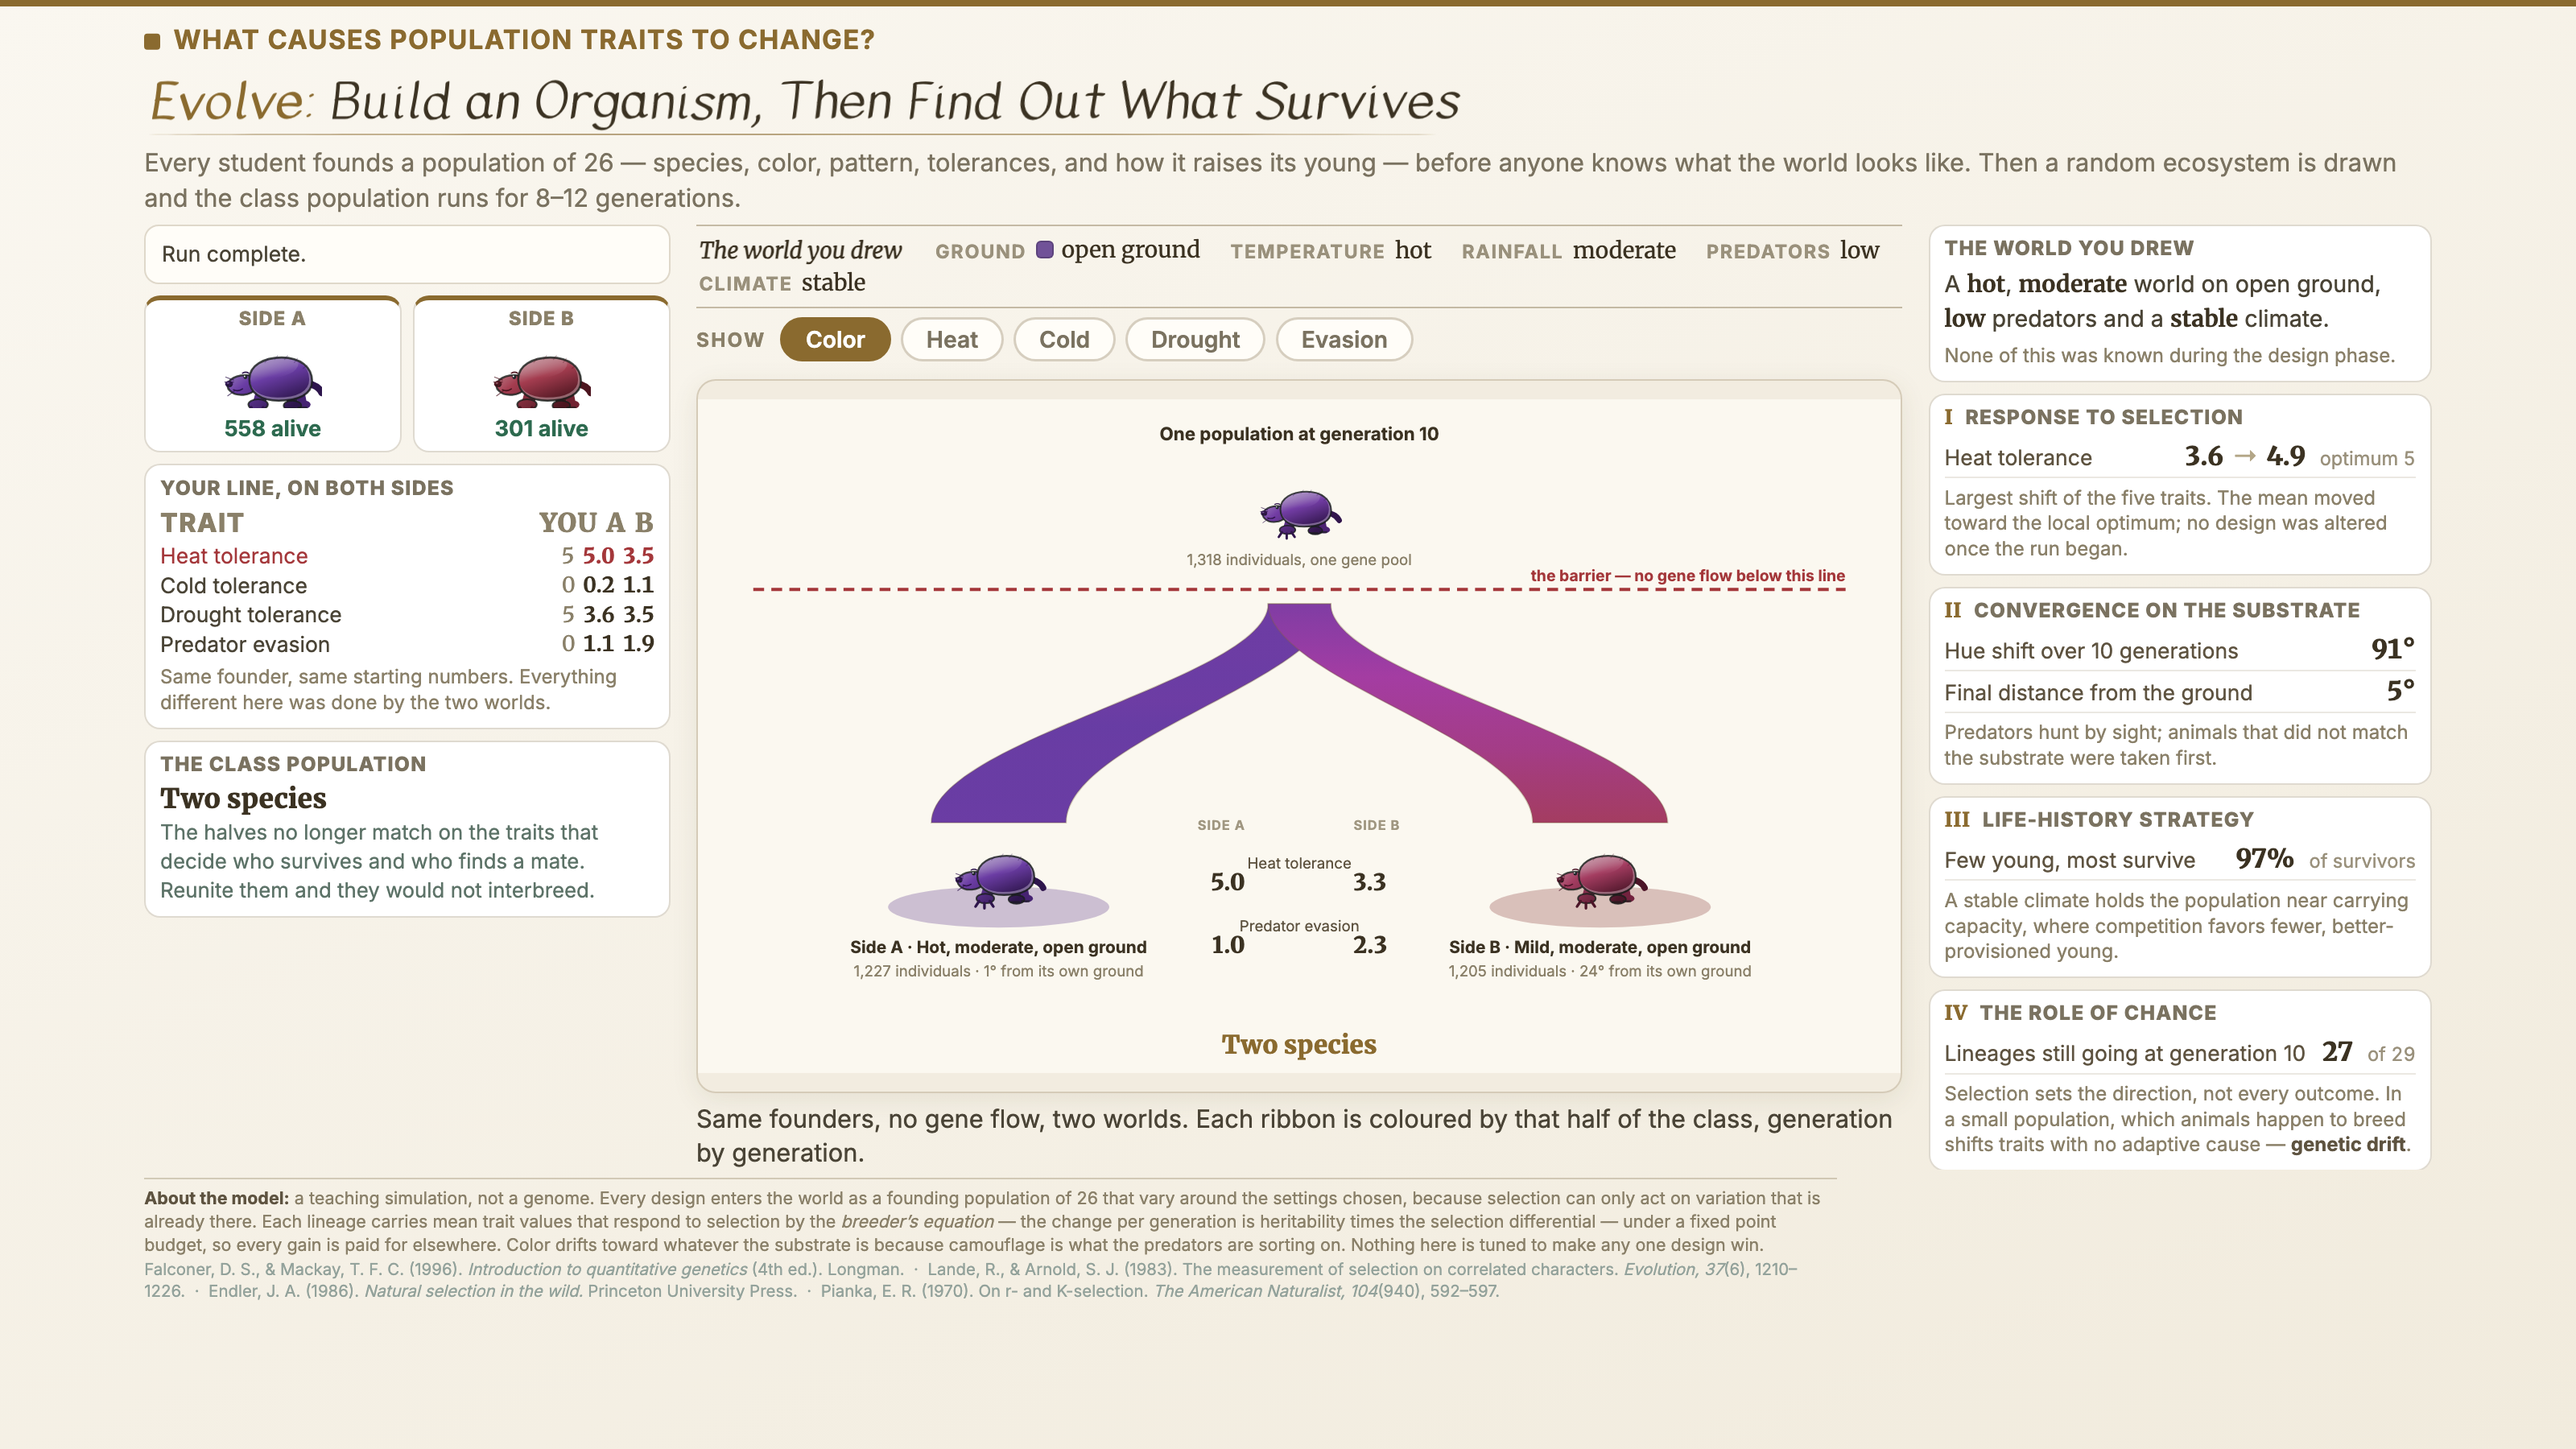
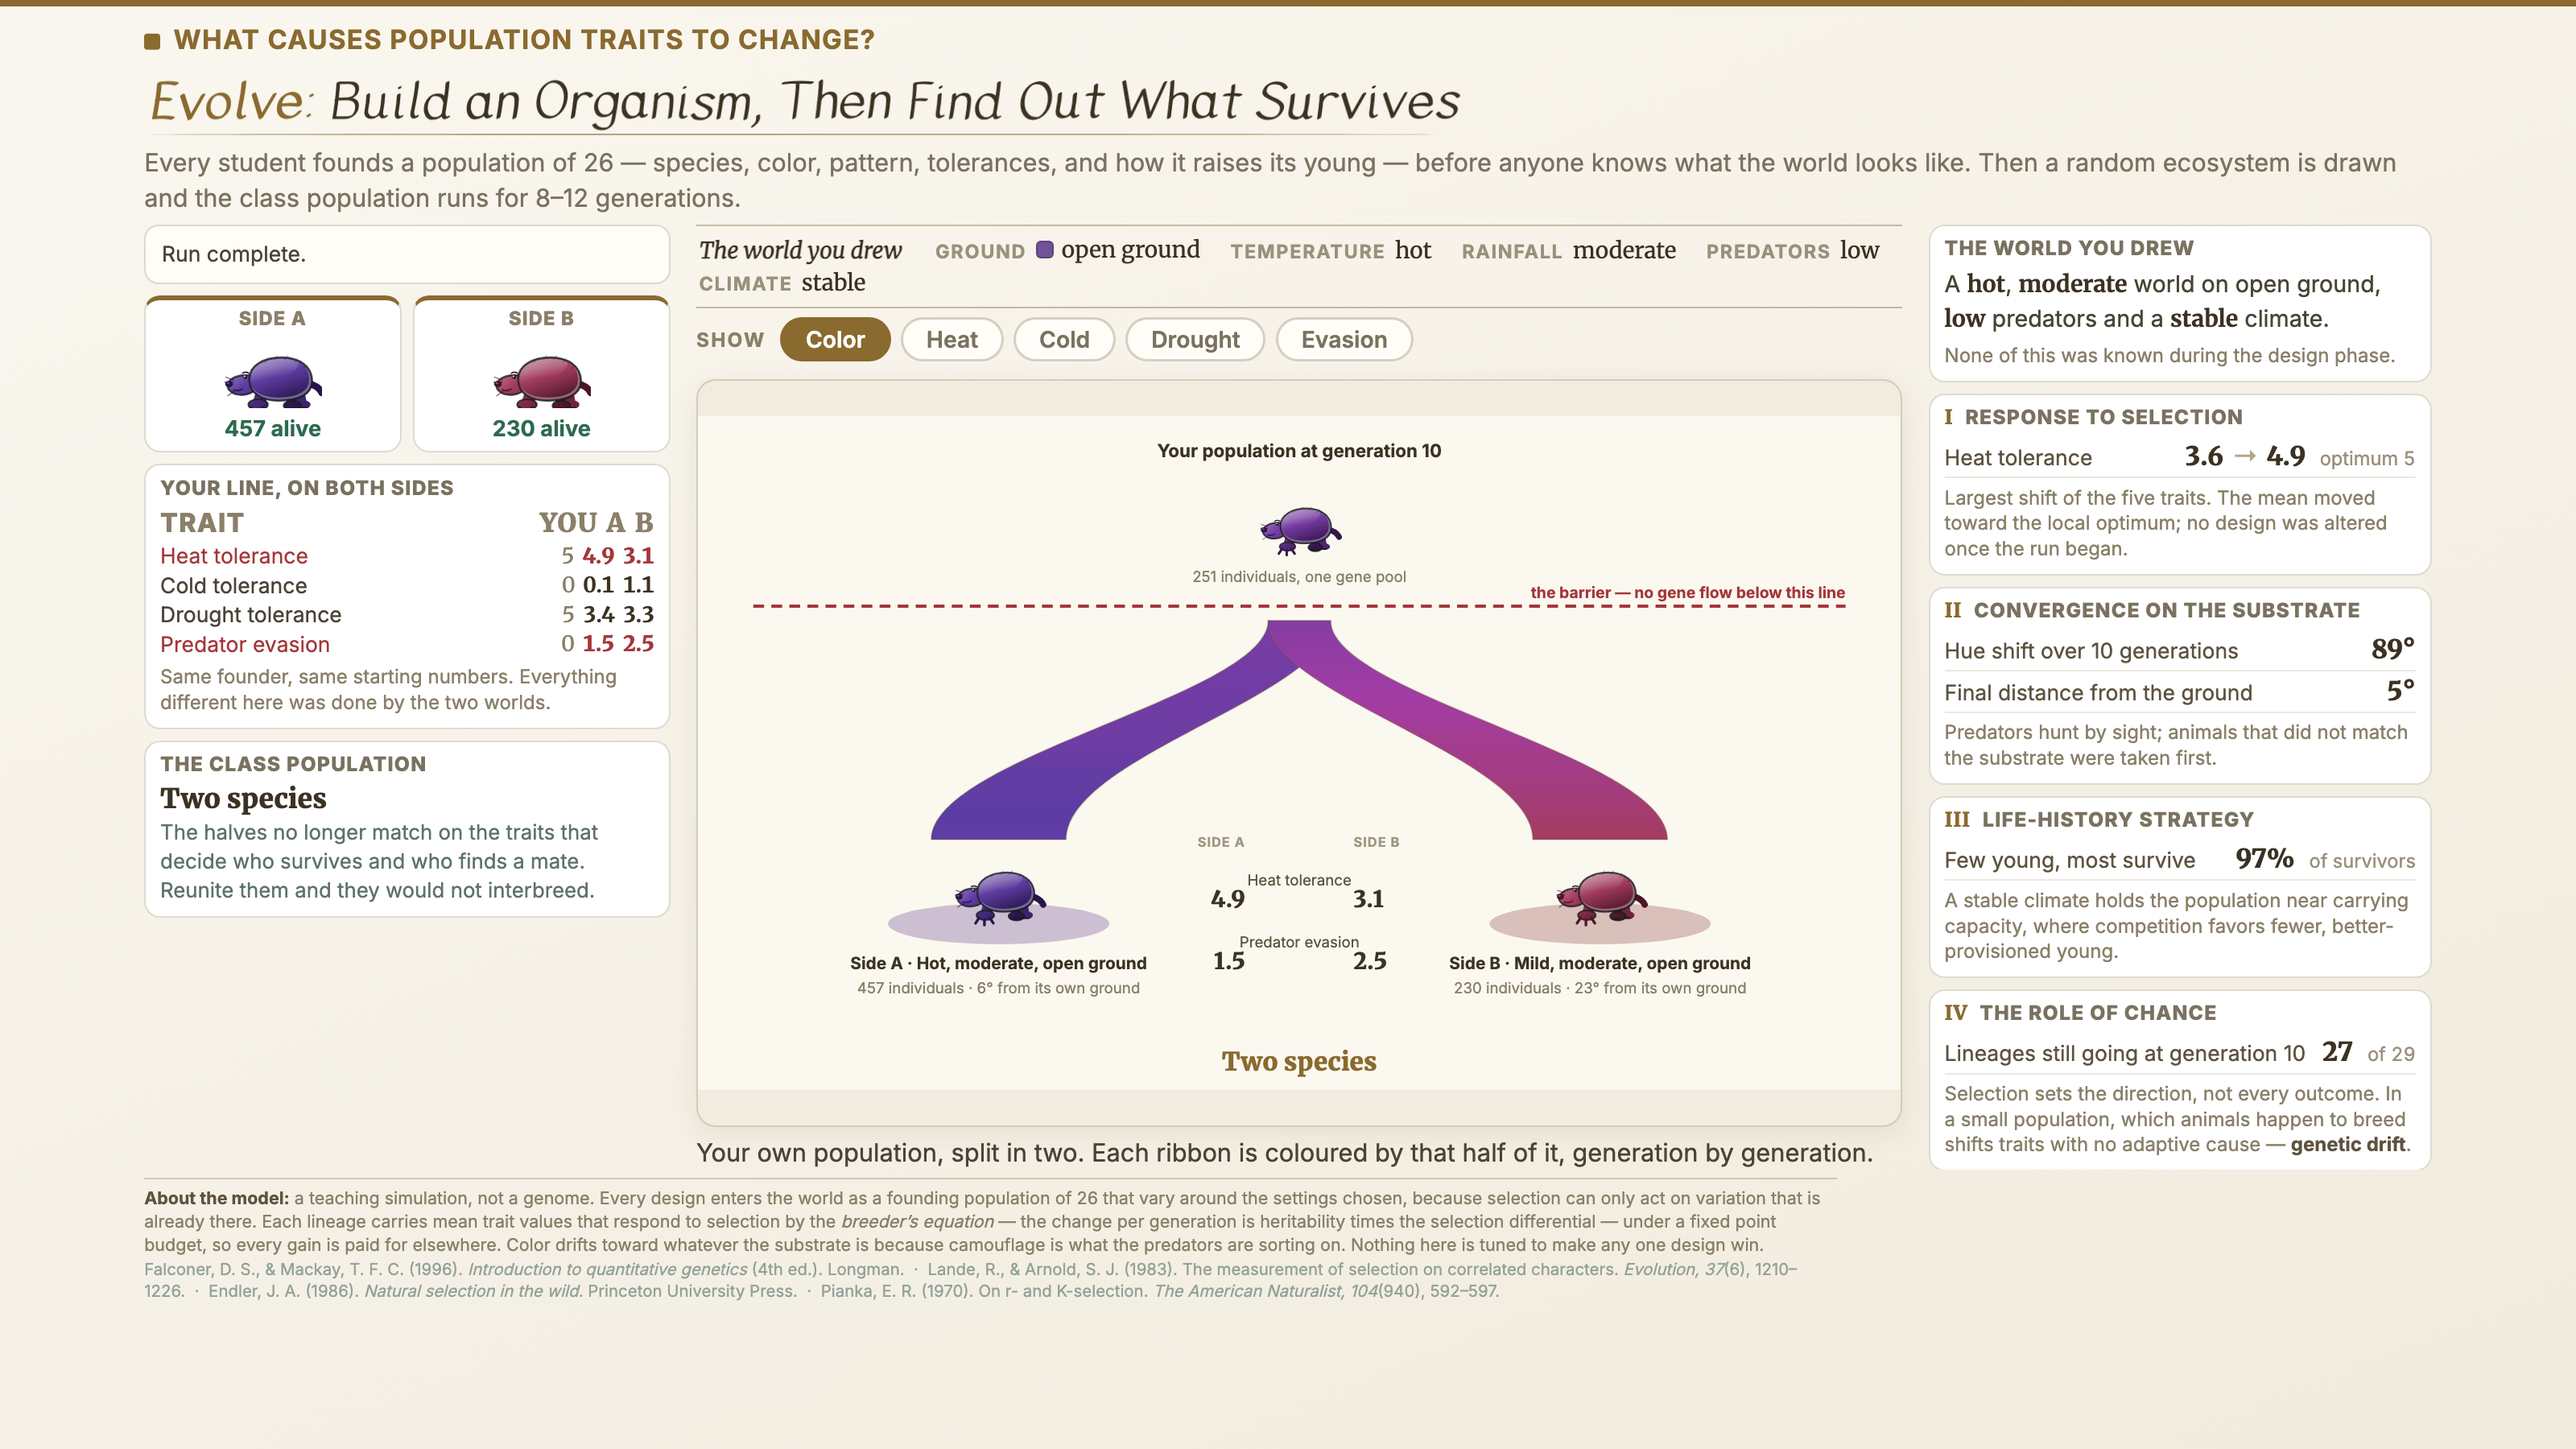
Make speciation personal on the phone and per-species on the projector
The split figure measured the whole class on both screens, so every one of 300
phones showed the same verdict about a population none of them owned. It now
measures the student's OWN lineage: their founders at the barrier, their two
halves, their verdict.

The projected copy closes on the five species instead. Everyone who picked a
species is pooled on each side of the barrier, and each row shows the two
halves in the colours they actually reached with how far apart they ended.
Same barrier, same two worlds, five founding stocks — and they do not all come
apart, which is the point of 4.3 and was invisible behind a single verdict.

Also fixes a verdict that read "two species" about a half that had died out:
an extinct side still has a last-known mean, and comparing against it made a
population that no longer exists look like a successful split.

diff --git a/evolve/index.html b/evolve/index.html
@@ -849,6 +849,16 @@ img.bleed{position:absolute; inset:0; width:100%; height:100%; object-fit:cover;
 .bd-count{font-family:'Merriweather',serif; font-size:13px; font-weight:900; fill:#3b3222;
   font-variant-numeric:tabular-nums;}
 .mb-cell{stroke:rgba(30,24,12,.22); stroke-width:.6;}
+/* the five-species comparison */
+.ss-name{font-family:'Merriweather',serif; font-size:19px; font-weight:900; fill:#3b3222;}
+.ss-sub{font-family:'Inter',sans-serif; font-size:12px; fill:#8a8069;}
+.ss-gone{font-family:'Inter',sans-serif; font-size:13px; font-style:italic; fill:#a89a86;}
+.ss-rule{stroke:rgba(120,100,60,.17); stroke-width:1; fill:none;}
+.ss-tick{stroke:rgba(120,100,60,.3); stroke-width:1; stroke-dasharray:3 4; fill:none;}
+.ss-track{fill:#ece5d6;}
+.ss-fill{fill:var(--accent); opacity:.85;}
+.ss-verdict{font-family:'Inter',sans-serif; font-size:14px; font-weight:700; fill:#5e5340;}
+.ss-verdict.two{fill:var(--accent); font-weight:800;}
 /* the draw, dressed as a specimen card rather than a game show: parchment,
    hairline rules, small-caps labels, and a restrained gold flash when a value
    lands. The riffle stays — it is the part that makes the room look up. */
@@ -2596,6 +2606,76 @@ function drawBands(svg, W, H){
   return true;
 }
 
+/* ══ WHAT THE BARRIER DID TO EACH SPECIES ══════════════════════════════════
+   The same barrier, the same two worlds, five founding stocks — and they do
+   not all come apart. Some end up unable to interbreed and some barely move,
+   which is the whole point of 4.3 and is invisible if the room is shown one
+   class-wide verdict.
+
+   Each row is one of the five species: everyone in the class who picked it,
+   pooled, on side A and on side B, and how far the two halves have moved. The
+   two animals are drawn in the colours those halves actually reached. ══ */
+function speciesSplitRows(){
+  var G=gens(), i=splitIdx()||G, ds=designs(), counts={};
+  Object.keys(ds).forEach(function(k){ counts[ds[k].sp]=(counts[ds[k].sp]||0)+1; });
+  return SPECIES.map(function(sp){
+    var who={sp:sp.k};
+    var A=meanOf(snapAt(1,i), who), B=meanOf(snapAt(2,i), who);
+    return {sp:sp, n:counts[sp.k]||0, A:A, B:B,
+            dv:(counts[sp.k] ? divergence(A,B) : null)};
+  }).filter(function(r){ return r.n>0; });
+}
+function drawSpeciesSplit(svg, W, H){
+  var rows=speciesSplitRows();
+  if(!rows.length) return false;
+  svg.setAttribute('preserveAspectRatio','xMidYMid meet');
+  svg.setAttribute('viewBox','0 0 '+W+' '+H);
+  var eA=world(1), eB=world(2);
+  var PADT=96, PADB=44, rowH=(H-PADT-PADB)/rows.length;
+  var xA=330, xB=470, xBar=560, barW=W-xBar-186;
+
+  var s='<rect width="'+W+'" height="'+H+'" fill="#fbf8f0"/>';
+  s+='<text class="bd-title" x="46" y="34">What the barrier did to each species</text>'
+    +'<text class="bd-marklab" x="46" y="58">The same two worlds for all of them. They did not all come apart.</text>'
+    +'<text class="sp-hd" x="'+xA+'" y="'+(PADT-16)+'" text-anchor="middle">side A</text>'
+    +'<text class="sp-hd" x="'+xB+'" y="'+(PADT-16)+'" text-anchor="middle">side B</text>'
+    +'<text class="sp-hd" x="'+xBar+'" y="'+(PADT-16)+'">how far apart</text>';
+
+  /* the verdict thresholds, so a row's position on the bar means something */
+  [0.15,0.30,0.45].forEach(function(v){
+    var x=xBar+barW*v;
+    s+='<path class="ss-tick" d="M'+x.toFixed(0)+' '+(PADT-8)+' V'+(PADT+rowH*rows.length-4).toFixed(0)+'"/>';
+  });
+
+  rows.forEach(function(r,i){
+    var y=PADT+rowH*i, cy=y+rowH*0.46, sc=0.42;
+    s+='<path class="ss-rule" d="M46 '+(y+rowH-2).toFixed(1)+' H'+(W-46)+'"/>';
+    s+='<text class="ss-name" x="46" y="'+(cy-2).toFixed(1)+'">'+r.sp.n+'</text>'
+      +'<text class="ss-sub" x="46" y="'+(cy+16).toFixed(1)+'">'+r.n+' player'+(r.n===1?'':'s')+'</text>';
+    [[r.A,xA,eA],[r.B,xB,eB]].forEach(function(o){
+      var m=o[0], cx=o[1];
+      s+='<ellipse class="sp-ground" cx="'+cx+'" cy="'+(cy+20).toFixed(1)+'" rx="42" ry="8" fill="'
+        +hsl(o[2].hue,30,46)+'"/>';
+      if(!m){
+        s+='<text class="ss-gone" x="'+cx+'" y="'+(cy+4).toFixed(1)+'" text-anchor="middle">gone</text>';
+        return;
+      }
+      s+='<g transform="translate('+(cx-50*sc).toFixed(1)+','+(cy-45*sc-4).toFixed(1)+') scale('+sc+')">'
+        + critter(r.sp.k, Math.round(m.hue), 'solid', CRIT_SAT, CRIT_LIT) +'</g>';
+    });
+    var D=r.dv? r.dv.D : 0;
+    s+='<rect class="ss-track" x="'+xBar+'" y="'+(cy-7).toFixed(1)+'" width="'+barW+'" height="14" rx="7"/>'
+      +'<rect class="ss-fill" x="'+xBar+'" y="'+(cy-7).toFixed(1)+'" width="'
+      +Math.max(4,barW*Math.min(1,D)).toFixed(1)+'" height="14" rx="7"/>'
+      +'<text class="ss-verdict'+(D>=0.45?' two':'')+'" x="'+(xBar+barW+12)+'" y="'+(cy+5).toFixed(1)+'">'
+      +(r.dv? r.dv.name : '—')+'</text>';
+  });
+  s+='<text class="bd-leg" x="46" y="'+(H-14)+'">Further right means the two halves match less on the traits that '
+    +'decide who survives and who finds a mate.</text>';
+  svg.innerHTML=s;
+  return true;
+}
+
 /* ⚠ SUPERSEDED, KEPT FOR REFERENCE. The student's screen now shows their own
    founding population as a block chart (drawMineBands) — the same view the room
    gets, which is the honest one because they founded a population rather than an
@@ -2827,26 +2907,57 @@ function modalSpecies(){
   Object.keys(cnt).forEach(function(k){ if(cnt[k]>bn){ bn=cnt[k]; sp=k; } });
   return sp;
 }
-function sideTrack(w, upto){
+/* Speciation is something that happens to a POPULATION, and every student has
+   one of their own — so the picture on a student's phone should be their
+   lineage splitting, not the class average, which is the same on all 300
+   screens and therefore tells nobody anything about their own animal. */
+function lineMean(snap, k){
+  var L=snap?snap.lines[k]:null;
+  if(!L||!L.alive||L.n<=0) return null;
+  return {t:L.t, hue:L.hue, n:L.n};
+}
+/* and the same for everyone who picked one species, which is what lets the
+   room see the barrier split some species and leave others alone */
+function speciesMean(snap, spk){
+  if(!snap) return null;
+  var ds=designs(), t={}, sx=0, sy=0, tot=0;
+  TRAITS.forEach(function(tr){ t[tr.k]=0; });
+  Object.keys(snap.lines).forEach(function(k){
+    if(!ds[k] || ds[k].sp!==spk) return;
+    var L=snap.lines[k]; if(!L.alive||L.n<=0) return;
+    tot+=L.n;
+    TRAITS.forEach(function(tr){ t[tr.k]+=L.t[tr.k]*L.n; });
+    var r=L.hue*Math.PI/180; sx+=Math.cos(r)*L.n; sy+=Math.sin(r)*L.n;
+  });
+  if(!tot) return null;
+  TRAITS.forEach(function(tr){ t[tr.k]/=tot; });
+  return {t:t, hue:((Math.atan2(sy,sx)*180/Math.PI)+360)%360, n:tot};
+}
+function meanOf(snap, who){
+  return who==null ? popMean(snap)
+       : (typeof who==='object' ? speciesMean(snap, who.sp) : lineMean(snap, who));
+}
+function sideTrack(w, upto, who){
   var hues=[], last=null, gone=0;
   for(var g=1; g<=upto; g++){
-    var m=popMean(snapAt(w,g));
+    var m=meanOf(snapAt(w,g), who);
     if(m){ hues.push(m.hue); last={g:g, m:m}; }
     else if(!gone && last){ gone=g; }
   }
   return {hues:hues, last:last, gone:gone};
 }
-function drawSplitFig(svg, W, H){
+function drawSplitFig(svg, W, H, who){
   var G=gens(), upto=splitIdx()||G;
-  var f=popMean(snapAt(0,G));
+  var f=meanOf(snapAt(0,G), who);
   if(!f) return false;
   var d=myDesign(), sp=(d&&d.sp)||modalSpecies(), pat=(d&&d.pat)||'solid';
-  var TA=sideTrack(1,upto), TB=sideTrack(2,upto);
+  var TA=sideTrack(1,upto,who), TB=sideTrack(2,upto,who);
   var UIDL=(++UID);
   var s='<rect width="'+W+'" height="'+H+'" fill="#fbf8f0"/>';
 
   /* ── the founder ── */
-  s+='<text class="sp-cap" x="'+(W/2)+'" y="34" text-anchor="middle">One population at generation '+G+'</text>'
+  s+='<text class="sp-cap" x="'+(W/2)+'" y="34" text-anchor="middle">'
+    +(who? 'Your population at generation ' : 'One population at generation ')+G+'</text>'
     +'<g transform="translate('+(W/2-50*0.66)+','+(88-45*0.66)+') scale(0.66)">'
     + critter(sp, Math.round(f.hue), pat, CRIT_SAT, CRIT_LIT)+'</g>'
     +'<text class="sp-sub" x="'+(W/2)+'" y="138" text-anchor="middle">'+num(f.n)+' individuals, one gene pool</text>';
@@ -2903,8 +3014,11 @@ function drawSplitFig(svg, W, H){
   });
 
   /* ── the two traits that came apart the most ── */
-  var mA=TA.last?TA.last.m:null, mB=TB.last?TB.last.m:null;
-  if(mA&&mB&&RA.live&&RB.live){
+  /* a side that died out has a last-known mean, but comparing against it says
+     "two species" about a population that no longer exists. The verdict has to
+     see nothing there, which is what makes it read "one side was lost". */
+  var mA=(RA.live&&TA.last)?TA.last.m:null, mB=(RB.live&&TB.last)?TB.last.m:null;
+  if(mA&&mB){
     var diffs=TRAITS.map(function(tr){
       return {n:tr.n, a:mA.t[tr.k], b:mB.t[tr.k], d:Math.abs(mA.t[tr.k]-mB.t[tr.k])};
     }).sort(function(x,y){ return y.d-x.d; }).slice(0,2);
@@ -3228,7 +3342,8 @@ function render(){
   q('[data-joinbox]').hidden = HOST || joined() || !(ph==='lobby'||ph==='design');
   renderEcoBar(); renderDesign(); renderMine(); renderReadout(); renderSurvey();
   var bb=q('[data-bandbar]');
-  bb.hidden = !(ph==='discuss'||ph==='final');
+  bb.hidden = !(ph==='discuss'||ph==='final')
+    || (ph==='final' && didSplit() && (HOST || !myDesign()));
   if(ph==='reveal') startReveal(); else q('[data-reveal]').hidden=true;
   root.classList.toggle('designing', ph==='design');
   var two = (ph==='split');
@@ -3246,7 +3361,7 @@ function render(){
     drawScene(q('[data-scene-a]'), world(1), snapAt(1,i2), PK, 520);
     drawScene(q('[data-scene-b]'), world(2), snapAt(2,i2), PK, 520);
   } else if(ph==='final' && didSplit() && !HOST && myDesign()
-            && drawSplitFig(q('[data-scene-a]'),1000,560)){
+            && drawSplitFig(q('[data-scene-a]'),1000,560,PK)){
     /* a tree carried through the barrier forks everywhere at once and stops
        being readable, so after the barrier the student gets the split itself */
   } else if((ph==='discuss'||ph==='final') && !HOST && myDesign()
@@ -3254,6 +3369,9 @@ function render(){
     /* the same chart the room is looking at, drawn for this student's own
        founding population — which is the honest picture, because they founded
        a population rather than an animal */
+  } else if(ph==='final' && didSplit() && (HOST || !myDesign())
+            && drawSpeciesSplit(q('[data-scene-a]'),1000,560)){
+    /* the room's closing view: the same barrier across all five stocks */
   } else if((ph==='discuss'||ph==='final') && (HOST || !myDesign()) && drawBands(q('[data-scene-a]'),1000,560)){
     /* the projected copy gets the whole class instead: one bar per generation */
   } else {
@@ -3281,8 +3399,10 @@ function render(){
   else if(ph==='discuss') cap.textContent = bandCaption();
   else if(ph==='split'){ var sd=divergence(popMean(snapAt(1,splitIdx()||1)),popMean(snapAt(2,splitIdx()||1)));
     cap.textContent = sd ? sd.name : 'Measuring how far the two halves have moved apart'; }
-  else if(ph==='final') cap.textContent = (!HOST && myDesign() && didSplit())
-    ? 'Same founders, no gene flow, two worlds. Each ribbon is coloured by that half of the class, generation by generation.'
+  else if(ph==='final') cap.textContent = didSplit()
+    ? ((!HOST && myDesign())
+        ? 'Your own population, split in two. Each ribbon is coloured by that half of it, generation by generation.'
+        : 'One barrier, five founding stocks. Some came apart; some barely moved.')
     : bandCaption();
   else cap.textContent='';
 
